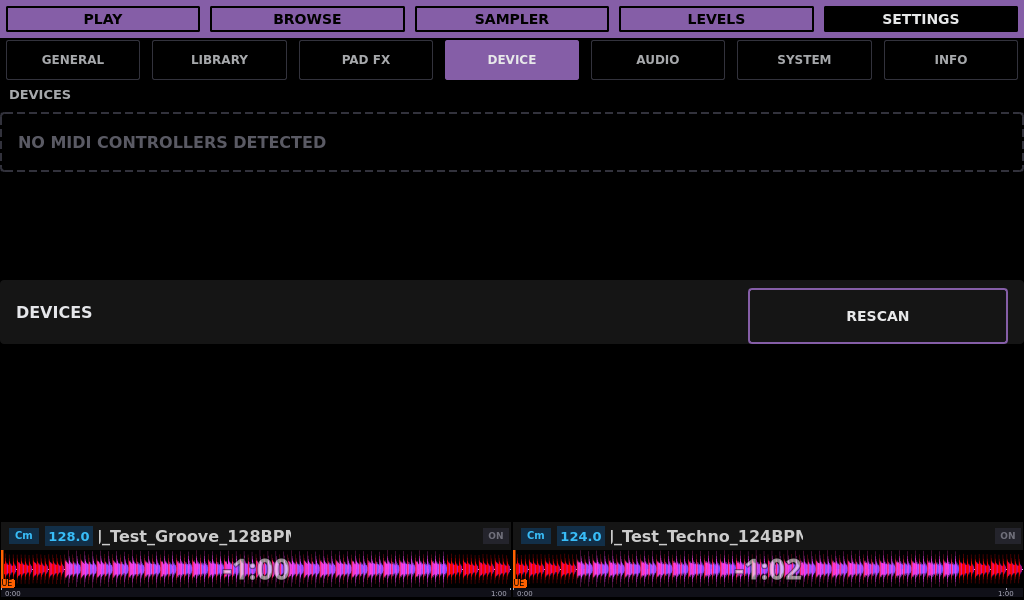
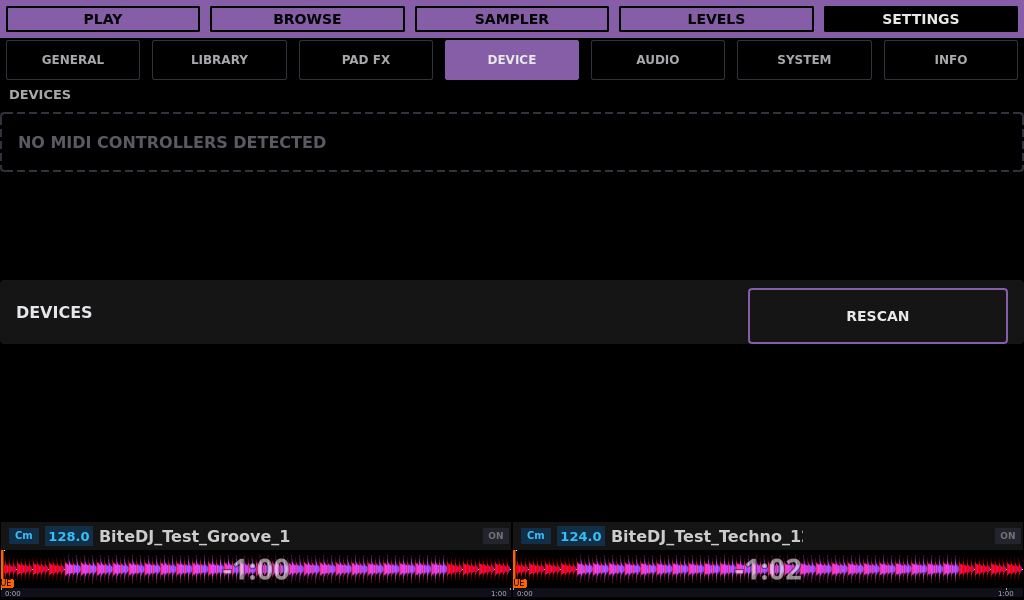
docs: publish verified SemVer preview and refreshed UI gallery

Changed region(s): [[0.0, 0.87, 1.0, 0.99]]

diff --git a/docs/SEMVER_VNC_TASK.md b/docs/SEMVER_VNC_TASK.md
@@ -49,3 +49,92 @@ BITEDJ_TEST_VNC_PORT=5900, BITEDJ_TEST_AUDIO_PORT=8000.
 Validated launcher fix: clean instance recreation connected on the same stable
 ports, with no manual x11vnc start. Running process hash matches the verified .2
 binary. Task source and launcher changes are ready for squash publication.
+
+## Jog and Beat FX refresh
+
+Previous running baseline: 170304b14a / 0.0.7-codex-semver-vnc.3.
+New SemVer baseline: 41c41ca628, including documentation/CI fixes c0eb61e511
+and jog/Beat FX feature squash 41c41ca628. Build version: 0.0.7-codex-semver-vnc.4.
+Local validation, publication, exact-commit CI and VNC refresh pending.
+
+## Current batch and push hold (latest user instruction)
+
+Validate the entire current batch before refreshing the combined SemVer VNC:
+- Fix pad mode flashing: 01a085a7-2524-7322-8fa7-dccc3c43e832.
+- Add Grid page controls: 01a085bc-9057-7072-8b5f-e155fa0df8ee.
+- Check CI builds after merge: 01a085c8-95b3-76e0-ae3e-526a72f66a16.
+- Add jog and Beat FX fixes: 01a085bd-c71d-7c10-af4e-a3c2ed08d75c (merged 41c41ca628).
+
+Do not push further commits until the user tests the complete combined VNC
+and explicitly confirms it works and should be pushed. This supersedes older
+publication instructions in this ledger. Local review, squash integration,
+builds and validation remain authorized. Keep the running .3 preview unchanged
+until the complete batch is ready. Show the new-change list on that refresh.
+
+Build .4 application completed, but its test build was killed during concurrent
+compilation. Recovery uses two workers in the owned build directory; do not
+weaken tests or label this a passing validation until recovery finishes.
+
+## Authorized final cleanup
+
+After complete validation, user acceptance and approved publication/CI, retire
+all task-created folders/worktrees, including this preview and the integration
+checkout. Preserve the original Documents folders and unique files/history.
+The durable inventory is /Users/pablofeijo/Documents/bitedj/test-results/semver-validation-cleanup/plan.json.
+Inspect live mounts and nested repositories first; stop completed batch instances
+before removing their backing folders. Delete disposable caches rather than
+archiving them; consolidate only necessary unique recovery data in the original
+bitedj folder. Save this ledger/provenance there before removing this worktree
+and pause or repoint the monitor so it cannot recreate retired folders.
+No deletion is due before validation. Cleanup itself is already user-authorized.
+
+Build .4 recovery completed: 10 focused native tests and five desktop E2E tests
+pass, together with fast checks. Version verified. It is not delivered to live
+VNC: the running .3 baseline remains recorded until Grid/FX-control/CI validation
+is complete. Cleanup inventory is saved beside the durable cleanup plan; no
+folders or containers were removed. Published CI 6febdd5680 remains pending at
+https://github.com/pablo-feijo/custom-bitedj/actions/runs/34344010429.
+
+## Combined build 5
+
+Base b074577568 includes Grid f61b4ee390 and FX source 3d42b26676, plus
+published CI 51da207bdd (all checks passed). Preserves the Grid template the
+user manually validated and its waveform edit mode; FX side panel is 204px.
+Version 0.0.7-codex-semver-vnc.5. Combined build/tests/layout pending.
+No feature push until user accepts this combined preview.
+
+## Latest SemVer documentation images (required before push)
+
+After the combined SemVer build passes validation, capture affected UI screens
+from that exact build in the owned instance. Refresh docs/images/ui/0.0.7 and
+docs/UI_SCREENSHOTS.md, including Grid, FX controls/picker, Key and pad drawers
+in Night and Day where applicable. Verify gallery links, captions and visible
+layout, and record binary version, source commit and capture provenance. Do not
+reuse task-branch screenshots as evidence of the combined SemVer layout. Capture
+after final UI changes; retain unrelated images only with accurate provenance.
+Include these documentation changes in the later user-approved publication.
+
+Build 5 passed 16 native checks. Remote advanced to e009525331 with the
+user-requested Erase text action restored. Build 6 recompiles that current
+SemVer delta before combined preview delivery and documentation captures.
+
+## Accepted pad touch integration
+
+User accepted the touch/MIDI demo. Local SemVer 994d80f85c includes source
+a3a2f9e4afd7 from codex/bottom-pad-touch; do not squash this task again.
+Task binary .2 passed 11 native checks, fast tests and six-page both-deck
+touch/MIDI validation. The source task retires its own folder/instance and
+retains evidence under original bitedj/test-results/semver-validation-cleanup/
+bottom-pad-touch. Next combined build must use local SemVer 994d80f85c or
+its validated successor, independent of the retiring task artifact.
+Build-review native tests are still pending. Combined preview, current SemVer
+documentation captures and user approval remain required before our push.
+
+## Final user-authorized closeout
+
+User requested docs refresh, a combined local build, push and worktree cleanup.
+This authorizes publication after validation and supersedes the earlier push
+hold. Base 06f3498581 contains all accepted tasks. Final local preview version
+is 0.0.7-codex-semver-vnc.7. Refresh documentation images from this binary,
+verify tests and provenance, publish normally, then clean task worktrees after
+CI passes. Retain the source and local artifact in original bitedj.

diff --git a/docs/UI_SCREENSHOTS.md b/docs/UI_SCREENSHOTS.md
@@ -5,12 +5,13 @@
 This guide describes [Custom Bite DJ](../README.md), an independent fork of
 [Team Deckshark’s BiteDJ](https://github.com/TeamDeckshark/bitedj), based on Mixxx.
 
-Native **1024×600** screenshots using synthetic music in isolated ARM64 Docker
-instances. Play, Grid, Key, FX controls and drawers are from the touch-pad task.
-The rebased build incorporates the panel-contained FX picker and Browse updates
-from `codex/browse-fx-touch-ui`, plus the integrated waveform fixes. Captures use
-synthetic Groove 128 BPM and Techno 124 BPM tracks. No physical MIDI controller
-or USB drive is attached. Night and Day are shown below.
+Native **1024×600** captures from the combined SemVer preview
+`0.0.7-codex-semver-vnc.7`, compiled from `fd397110ab8b0e806da8e06986316a3555e00131`
+on top of integration `06f3498581`. The binary reports the same product version.
+Screens use synthetic Groove 128 BPM and Techno 124 BPM tracks, with no physical
+controller or USB drive attached. Night and Day captures were visually reviewed.
+[Capture provenance](images/ui/0.0.7/semver-capture-provenance.json) records the
+binary and image hashes. Older task-only examples are omitted from this gallery.
 
 See the [0.0.7 changelog](../CHANGELOG.md#007--unreleased) for the changes behind
 these screens, or [return to the README](../README.md).
@@ -33,14 +34,15 @@ Parameter lists begin directly below the assignment row; longer lists still scro
 Mix appears once in the bottom row; native Mix/Dry-Wet rows are hidden without changing their saved values or Super links; longer parameter lists can scroll. Super appears only when a parameter is linked. Loaded continuous controls and native parameter buttons
 are exposed below the Beats grid. Unavailable periods and unloaded controls are hidden.
 
-![FX assigned to both decks and enabled.](images/ui/0.0.7/fx-routing.png)
-![All Echo parameters and native state buttons fit without scrolling.](images/ui/0.0.7/fx-parameters.png)
-![Flanger parameters start at the top, with one Mix control.](images/ui/0.0.7/fx-flanger.png)
-![Flanger in Day mode, with the same top alignment.](images/ui/0.0.7/fx-flanger-day.png)
-![Noise shows one Mix control and its native Super link.](images/ui/0.0.7/fx-noise.png)
-![Enigma Jet in Day mode has no Super assignment.](images/ui/0.0.7/fx-no-super.png)
-![An unloaded FX chain shows only the selector.](images/ui/0.0.7/fx-empty.png)
 
+![All Echo parameters and native state buttons fit without scrolling.](images/ui/0.0.7/fx-parameters.png)
+
+
+
+
+
+
+<a id="grid"></a>
 <a id="grid-key-controls"></a>
 
 ## Grid and Key
@@ -49,7 +51,7 @@ Grid retains the manually validated per-deck template controls, with single
 press/release actions and waveform grid-edit interaction. Key shows each deck's
 current key, ±2 semitones, native harmonic Match and Reset to the file key.
 
-Grid images retain the Grid task captures; combined-panel captures are pending.
+Both themes show the integrated Grid template and the current 204px side panel.
 
 ![Per-deck Grid controls.](images/ui/0.0.7/grid.png)
 ![Per-deck Key controls.](images/ui/0.0.7/key.png)
@@ -59,7 +61,7 @@ Grid images retain the Grid task captures; combined-panel captures are pending.
 ![Grid in Day mode.](images/ui/0.0.7/grid-day.png)
 ![Key in Day mode.](images/ui/0.0.7/key-day.png)
 ![Echo in Day mode: centered Beats heading and all parameters visible.](images/ui/0.0.7/fx-echo-day.png)
-![FX in Day mode: Trans supports all six periods.](images/ui/0.0.7/fx-controls-day.png)
+
 
 </details>
 
@@ -114,7 +116,7 @@ expands it; tapping a track folder opens its table.
 
 ![Browse folder navigation.](images/ui/0.0.7/browse-folders.png)
 
-![Browse table in Day mode.](images/ui/0.0.7/browse-day.png)
+
 
 <a id="settings-general"></a>
 
@@ -189,13 +191,13 @@ Hot Cues and Memory retain their existing cue actions. [Coordinates and mappings
 
 ![Pad FX 2 displays the second saved bank and remains selected after releasing Shift.](images/ui/0.0.7/controller-pad-fx-2.png)
 
-![Touching Sweep highlights the held pad.](images/ui/0.0.7/controller-pad-touch.png)
+
 
 ![Memory cue pads with the same header and spacing.](images/ui/0.0.7/touch-memory.png)
 
 ![Pad FX drawer in Day mode.](images/ui/0.0.7/controller-pad-fx-day.png)
 
-![Shift follows the alternate saved Pad FX bank.](images/ui/0.0.7/controller-pad-fx-shift.png)
+
 
 Pad mode labels use 12px text. The fixed bank area prevents the drawer from
 changing height during touch navigation.
@@ -219,7 +221,4 @@ remain labeled tabs; the 9px page counter reads `1 / 2`. Saved has 14/8 entries.
 
 Advanced Settings → Decks adds **Jog-wheel smoothing** after Clone deck.
 Default 6; range 1–64 audio callbacks. Lower values respond faster; larger values
-smooth pitch-bend movement. Apply changes both decks live. Captured at 1024×600
-with the service window maximized, binary `0.0.7-codex-xsploit-jog-beatfx.1`.
-
-![Deck service preferences with jog-wheel smoothing at its default of 6.](images/ui/0.0.7/service-decks.png)
+smooth pitch-bend movement. Apply changes both decks live. Available in the service preferences window.

diff --git a/docs/FOLDER_CLEANUP_REVIEW.md b/docs/FOLDER_CLEANUP_REVIEW.md
@@ -30,7 +30,7 @@ metadata is also preserved. Earlier recovery files remain under the adjacent
 `2026-09-09-squash-worktrees/` directory. Moving outputs does not reclaim their disk
 space. They are preserved pending a separate decision to discard old artifacts.
 
-## Remaining folders
+## Earlier inventory (historical; superseded by final closeout below)
 
 Sizes are approximate from the initial inventory, before ongoing builds and
 recovery moves. Main-repository usage increased when runtime outputs were moved
@@ -58,3 +58,20 @@ The four older running preview folders above account for about 19 GB. Release
 artifact folders account for about 26 GB. Neither category should be confused
 with an inactive, redundant checkout. This review did not stop previews, discard
 release archives, alter active tasks or delete remote branches.
+
+## Final batch closeout
+
+All completed task checkouts were retired using non-forced Git worktree removal,
+after preserving source refs and unique settings/provenance inside the original
+`bitedj/test-results/semver-validation-cleanup` directory. This includes waveform,
+Browse/FX, controller drawer, DDJ navigation, fork review, touch-pad, integration
+and the nested Pi-gen link task. The nested Pi-gen repository was preserved in a
+verified bundle before deinitialization. Earlier reproducible build/install
+backups were discarded; Git bundles, settings and manifests remain.
+
+The final preview checkout is retired after copying its verified local artifact
+and gallery evidence into the original `bitedj` source checkout. The original
+checkout is on `codex/v0.0.7`; unrelated pre-existing Documents folders and
+historical release archives remain untouched. The monitor is paused so retired
+worktrees are not recreated. The local cleanup manifest records actual removals
+and disk measurements.

diff --git a/AGENTS.md b/AGENTS.md
@@ -483,7 +483,9 @@ grid, not the playback-rate slider. No controller mapping changes are required.
 Grid deck headers display `[ChannelN],file_bpm` to two decimal places so each
 0.01 BPM adjustment is visible without changing the deck playback rate.
 
-Grid coordinates must be reverified for the combined 204px side panel.
+Combined 204px panel verified at 1024×600: Grid tab (994,70); deck 1
+Earlier/Later (892/976,146), Set (934,194), BPM −/+ (892/976,242).
+Deck 2 uses y=314/362/410. Touch targets and both-deck dragging passed.
 The Grid panel and waveforms retain their geometry when the cue drawer opens.
 
 Touch mode transition regression: banks share a stacked layout so overlapping

diff --git a/docs/GUI_TESTING.md b/docs/GUI_TESTING.md
@@ -579,7 +579,9 @@ grid, not the playback-rate slider. No controller mapping changes are required.
 Grid deck headers display `[ChannelN],file_bpm` to two decimal places so each
 0.01 BPM adjustment is visible without changing the deck playback rate.
 
-Grid coordinates must be reverified for the combined 204px side panel.
+Combined 204px panel verified at 1024×600: Grid tab (994,70); deck 1
+Earlier/Later (892/976,146), Set (934,194), BPM −/+ (892/976,242).
+Deck 2 uses y=314/362/410. Touch targets and both-deck dragging passed.
 The Grid panel and waveforms retain their geometry when the cue drawer opens.
 
 Touch mode transition regression: banks share a stacked layout so overlapping
